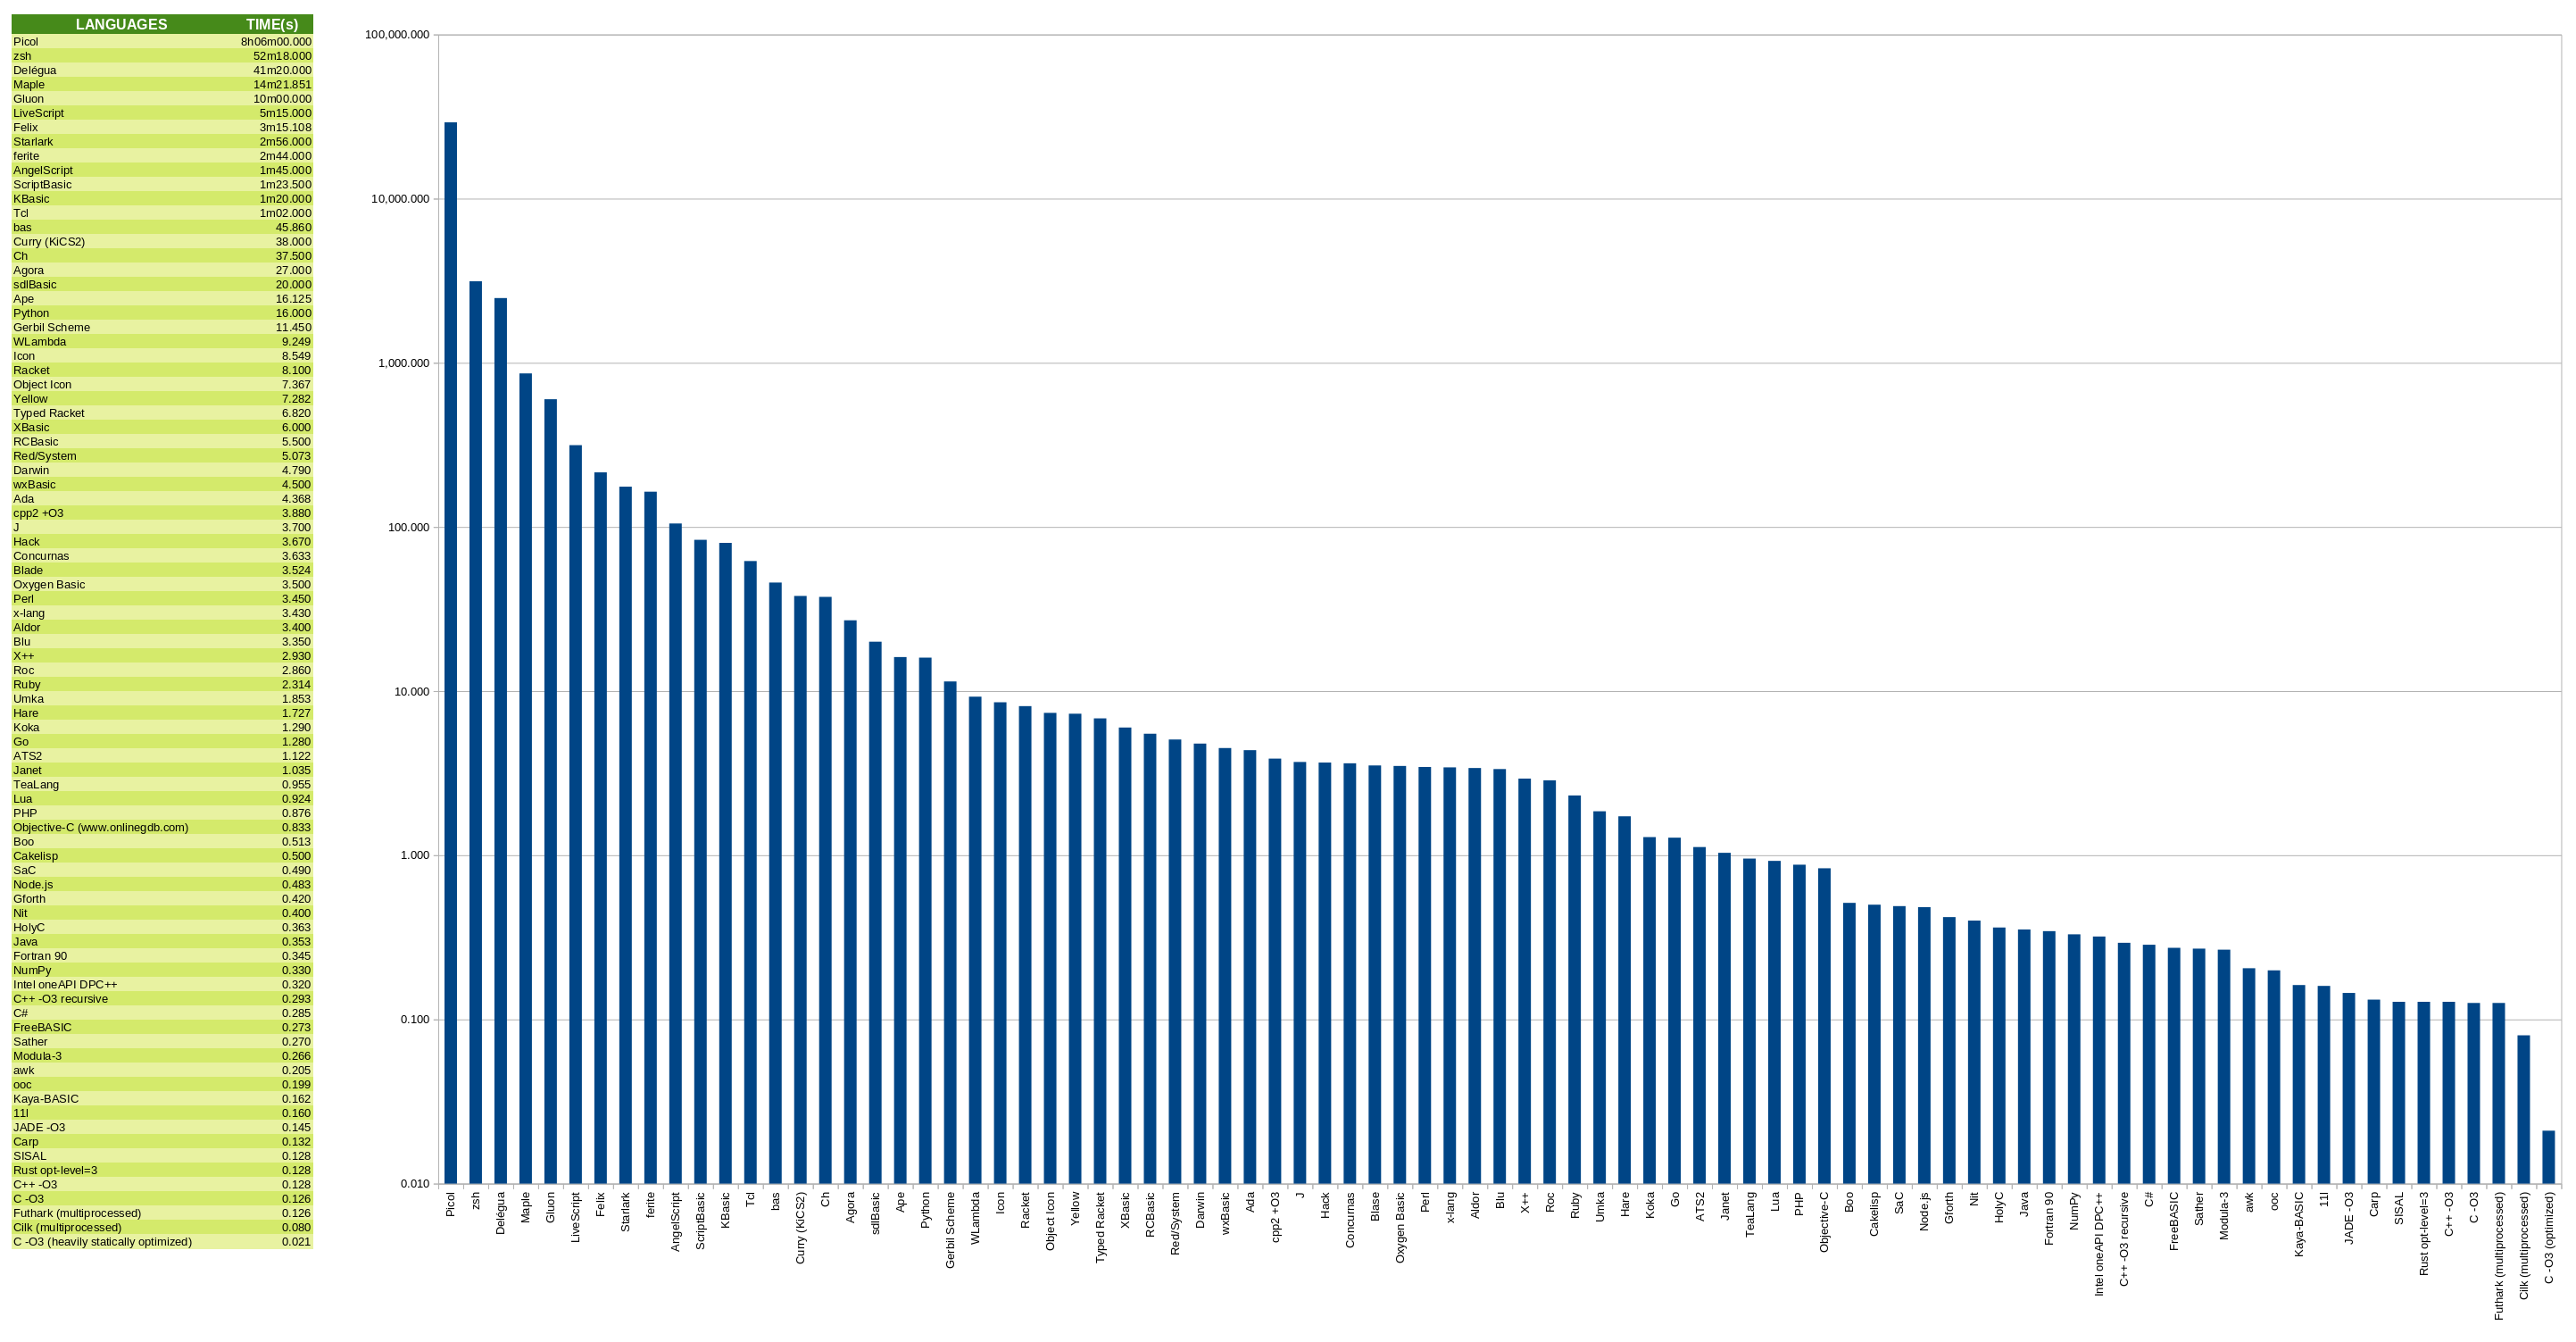
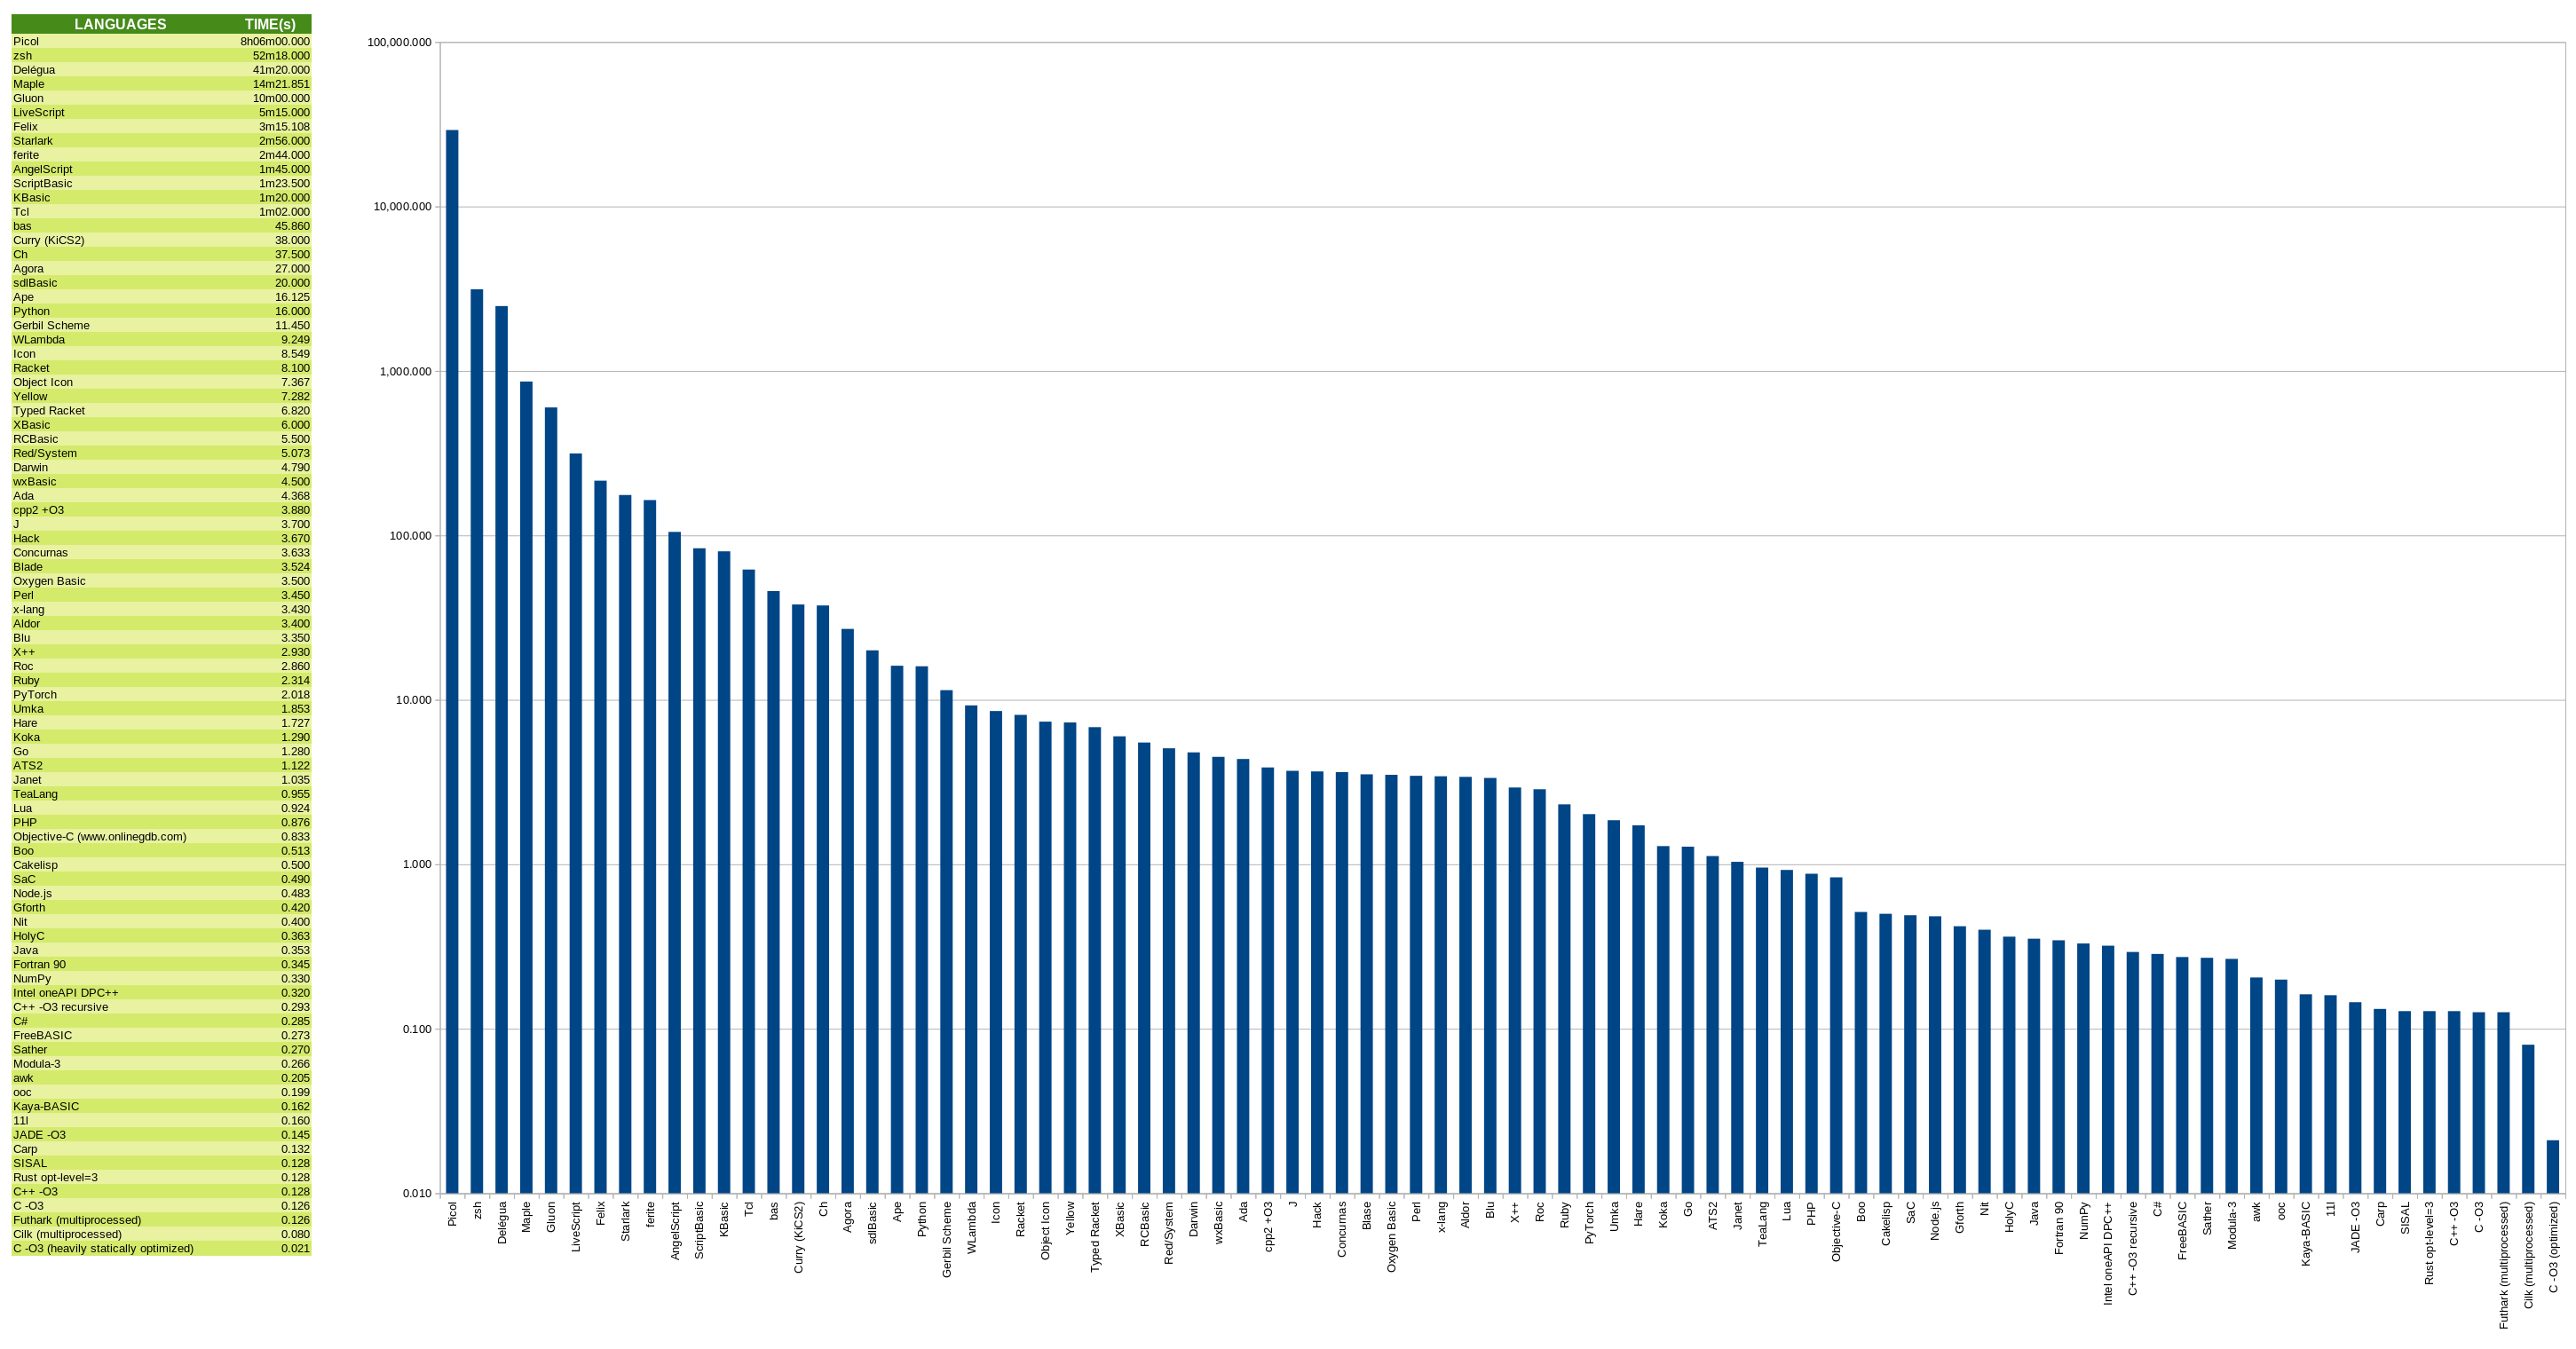
Add files via upload
+ PyTorch

Changed region(s): [[0.1559, 0.0918, 0.9979, 0.9794], [0.0, 0.0, 0.1247, 0.9488], [0.0312, 0.0, 0.0624, 0.0306]]

diff --git a/JurosPT.py b/JurosPT.py
@@ -1,0 +1,92 @@
+# se o NumPy não estiver instalado, você pode querer retirar o aviso "Failed to initialize NumPy: No module named 'numpy' "
+# já que não faz a menor diferença para a solução, apenas descomente as duas linhas abaixo para ignorar a falta do módulo
+
+# import warnings
+# warnings.filterwarnings("ignore", message = "Failed to initialize NumPy.*")
+
+import torch as pt
+
+# Calcula o acréscimo a partir dos juros e os juros a partir do acréscimo
+class JurosPT:
+    """Classe que faz o cálculo do juros, sendo que precisa de arrays pra isso"""
+    Quantidade = 0
+    Composto = False
+    Periodo = 30.0
+    Pagamentos = pt.tensor([])
+    Pesos = pt.tensor([])
+
+    def __init__(self, quantidade=0, composto=False, periodo=30.0):
+        """O construtor inicializa os atributos escalares"""
+        self.Quantidade = quantidade
+        self.Composto = composto
+        self.Periodo = periodo
+        self.Pagamentos = pt.empty(quantidade, dtype=pt.float64)
+        self.Pesos = pt.empty(quantidade, dtype=pt.float64)
+
+    def setpagamentos(self, delimitador=",", pagamentos=""):
+        """Define as datas de pagamento a partir de uma string separada pelo delimitador"""
+        if pagamentos == "":
+            for i in range(self.Quantidade):
+                self.Pagamentos[i] = (i + 1) * self.Periodo
+        else:
+            temporaria = pagamentos.split(delimitador)
+            for i in range(self.Quantidade):
+                self.Pagamentos[i] = float(temporaria[i])
+
+    def setpesos(self, delimitador=",", pesos=""):
+        """Define os pesos a partir de uma string separada pelo delimitador"""
+        if pesos == "":
+            for i in range(self.Quantidade):
+                self.Pesos[i] = 1.0
+        else:
+            temporaria = pesos.split(delimitador)
+            for i in range(self.Quantidade):
+                self.Pesos[i] = float(temporaria[i])
+
+    def getpesototal(self):
+        """Retorna a soma total de todos os pesos"""
+        return self.Pesos.sum().item()
+
+    def jurosparaacrescimo(self, juros=0.0):
+        """Calcula o acréscimo a partir dos juros"""
+        pesototal = self.getpesototal()
+
+        if juros <= 0.0 or self.Quantidade < 1 or self.Periodo <= 0.0 or pesototal <= 0.0:
+            return 0.0
+
+        try:
+            if self.Composto:
+                acumulador = pt.sum(self.Pesos / pt.pow(1.0 + juros / 100.0, self.Pagamentos / self.Periodo)).item()
+            else:
+                acumulador = pt.sum(self.Pesos / (1.0 + juros / 100.0 * self.Pagamentos / self.Periodo)).item()
+        except ZeroDivisionError:
+            return 0.0
+
+        if acumulador <= 0.0:
+            return 0.0
+
+        return (pesototal / acumulador - 1.0) * 100.0
+
+    def acrescimoparajuros(self, acrescimo=0.0, precisao=15, maximointeracoes=65, maximojuros=50.0):
+        """Calcula os juros a partir do acréscimo"""
+        pesototal = self.getpesototal()
+
+        if ( maximointeracoes < 1 or self.Quantidade < 1 or precisao < 1 or self.Periodo <= 0.0
+             or acrescimo <= 0.0 or pesototal <= 0.0 or maximojuros <= 0.0 ):
+            return 0.0
+
+        minimojuros = 0.0
+        mediojuros = maximojuros / 2.0
+
+        minimadiferenca = 0.1 ** precisao
+
+        for i in range(maximointeracoes):
+            if (maximojuros - minimojuros) < minimadiferenca:
+                return mediojuros
+            if self.jurosparaacrescimo(mediojuros) <= acrescimo:  # bisseção
+                minimojuros = mediojuros
+            else:
+                maximojuros = mediojuros
+            mediojuros = (minimojuros + maximojuros) / 2.0
+
+        return mediojuros